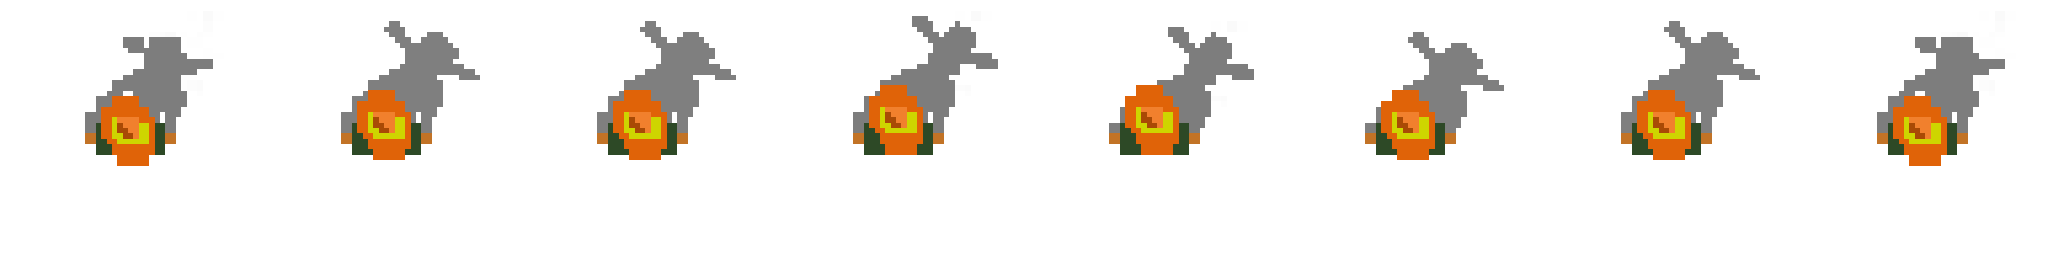
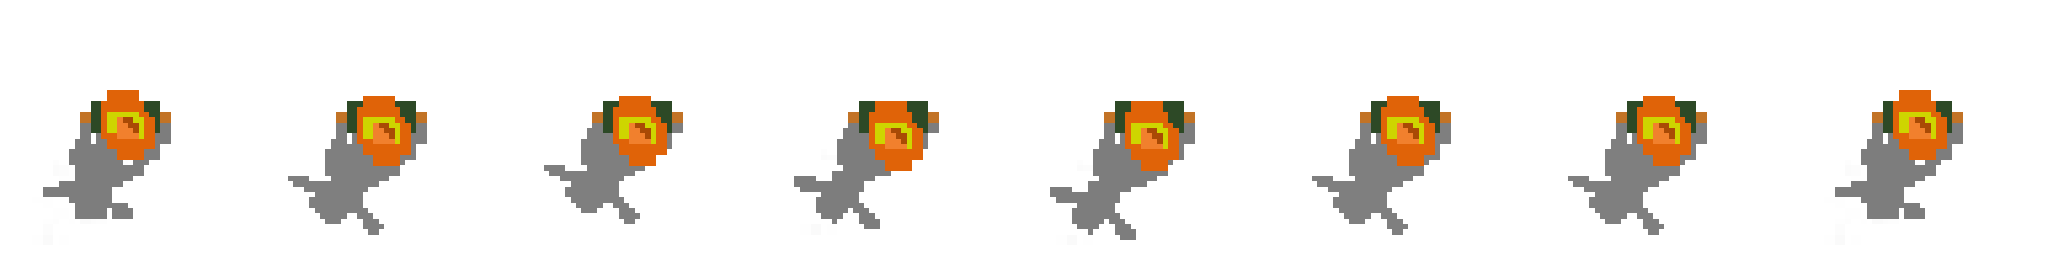
v0.8 added new animations swapped red an yellow player removed require

diff --git a/game/game.js b/game/game.js
@@ -27,22 +27,22 @@ Shootme.Game.prototype = {
     create: function () {
         var bg = this.add.image(0, 0, 'bg');
 
-        this.buttons.p1.push(this.add.sprite(this.world.centerX - 96, 52, 'btns-red'));
+        this.buttons.p1.push(this.add.sprite(this.world.centerX - 96, 52, 'btns-blue'));
         this.buttons.p1.push(this.add.sprite(this.world.centerX, 180, 'btns-red'));
-        this.buttons.p1.push(this.add.sprite(this.world.centerX + 96, 52, 'btns-red'));
+        this.buttons.p1.push(this.add.sprite(this.world.centerX + 96, 52, 'btns-blue'));
 
-        this.buttons.p2.push(this.add.sprite(this.world.centerX - 96, this.world.height - 96, 'btns-blue'));
-        this.buttons.p2.push(this.add.sprite(this.world.centerX, this.world.height - 256, 'btns-blue'));
-        this.buttons.p2.push(this.add.sprite(this.world.centerX + 96, this.world.height - 96, 'btns-blue'));
+        this.buttons.p2.push(this.add.sprite(this.world.centerX - 96, this.world.height - 136, 'btns-blue'));
+        this.buttons.p2.push(this.add.sprite(this.world.centerX, this.world.height - 264, 'btns-red'));
+        this.buttons.p2.push(this.add.sprite(this.world.centerX + 96, this.world.height - 136, 'btns-blue'));
 
 
         //put p1 sprite idle, add p1 sprite shoot
-        this.p1 = this.add.sprite(this.world.centerX - 96, 0, 'p1_animations');
+        this.p1 = this.add.sprite(this.world.centerX - 96, -24, 'p1_animations');
         this.p1.animations.add('idle', Phaser.ArrayUtils.numberArray(0, 8), 10, true);
         this.p1.animations.add('shoot', Phaser.ArrayUtils.numberArray(9, 21), 10, true);
         this.p1.animations.play('idle');
         //do same for p2
-        this.p2 = this.add.sprite(this.world.centerX - 96, this.world.height - 224, 'p2_animations');
+        this.p2 = this.add.sprite(this.world.centerX - 96, this.world.height - 264, 'p2_animations');
         this.p2.animations.add('idle', Phaser.ArrayUtils.numberArray(0, 8), 10, true);
         this.p2.animations.add('shoot', Phaser.ArrayUtils.numberArray(9, 21), 10, true);
         this.p2.animations.play('idle');

diff --git a/game/preloader.js b/game/preloader.js
@@ -23,11 +23,11 @@ Shootme.Preloader.prototype = {
 
         this.load.spritesheet('p1_idle', 'assets/red_idle.png', 256, 256);
         this.load.spritesheet('p2_shoot', 'assets/red_shoot.png', 256, 256);
-        this.load.spritesheet('p1_animations', 'assets/red_animations.png', 256, 256);
+        this.load.spritesheet('p1_animations', 'assets/yellow_animations.png', 256, 256);
 
         this.load.spritesheet('p2_idle', 'assets/yellow_idle.png', 256, 256);
         this.load.spritesheet('p2_shoot', 'assets/yellow_shoot.png', 256, 256);
-        this.load.spritesheet('p2_animations', 'assets/yellow_animations.png', 256, 256);
+        this.load.spritesheet('p2_animations', 'assets/red_animations.png', 256, 256);
 
     },
 

diff --git a/index.html b/index.html
@@ -18,7 +18,6 @@
 
 
     <script src="node_modules/phaser/build/phaser.js"></script>
-    <script src="node_modules/requirejs/require.js"></script>
     <script src="game/boot.js"></script>
     <script src="game/preloader.js"></script>
     <script src="game/mainMenu.js"></script>
@@ -37,6 +36,7 @@
             game.state.start('Boot');
         };
     </script>
+<p>p1: q,s,y - p2: i,j,m</p>
 </body>
 
 </html>
